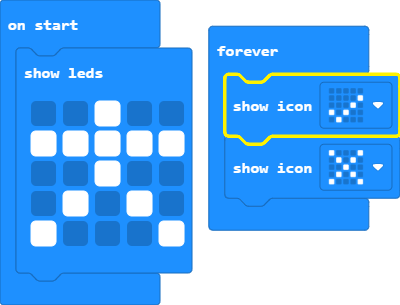
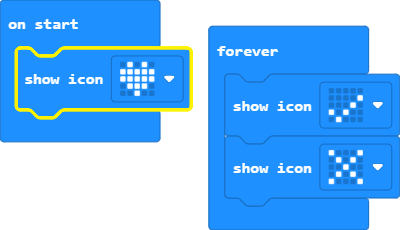
Update main.blocks, main.ts

diff --git a/main.ts b/main.ts
@@ -1,10 +1,4 @@
-basic.showLeds(`
-    . . # . .
-    # # # # #
-    . . # . .
-    . # . # .
-    # . . . #
-    `)
+basic.showIcon(IconNames.Heart)
 basic.forever(function () {
     basic.showIcon(IconNames.Yes)
     basic.showIcon(IconNames.No)
